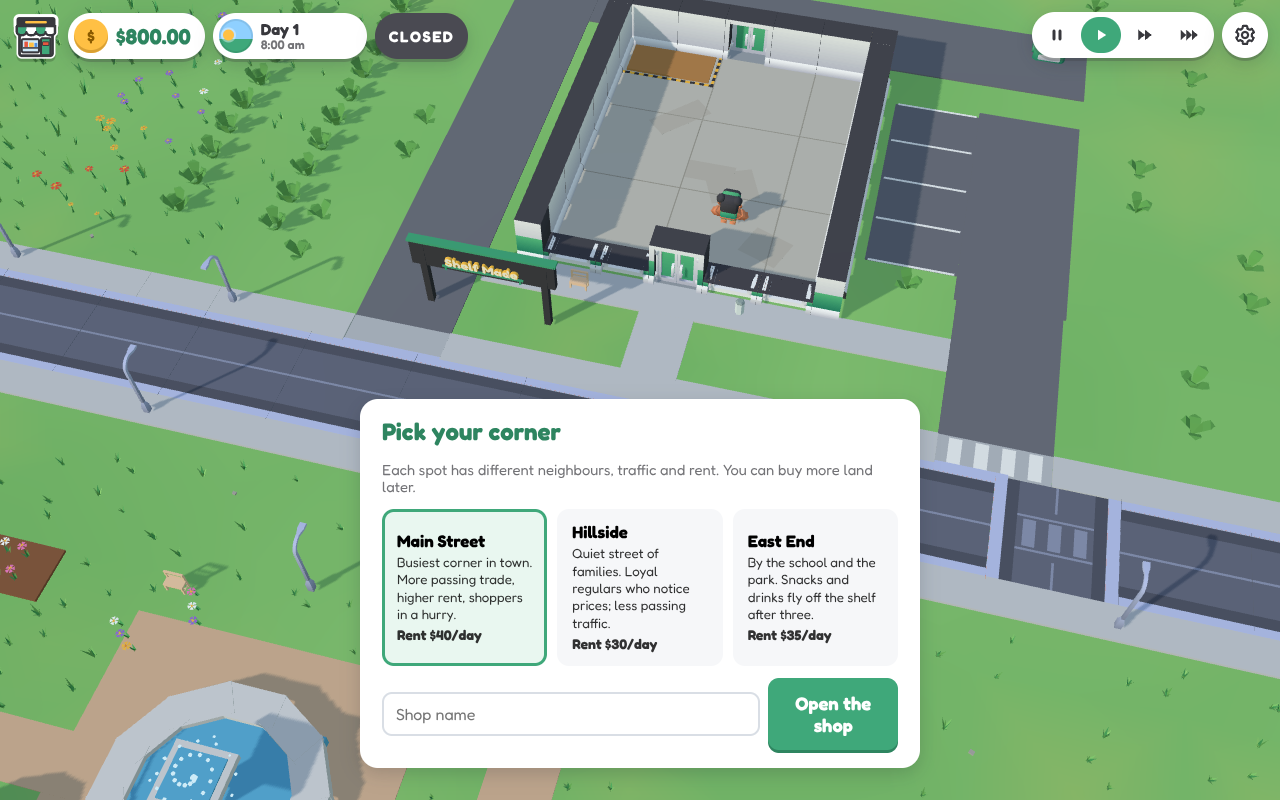
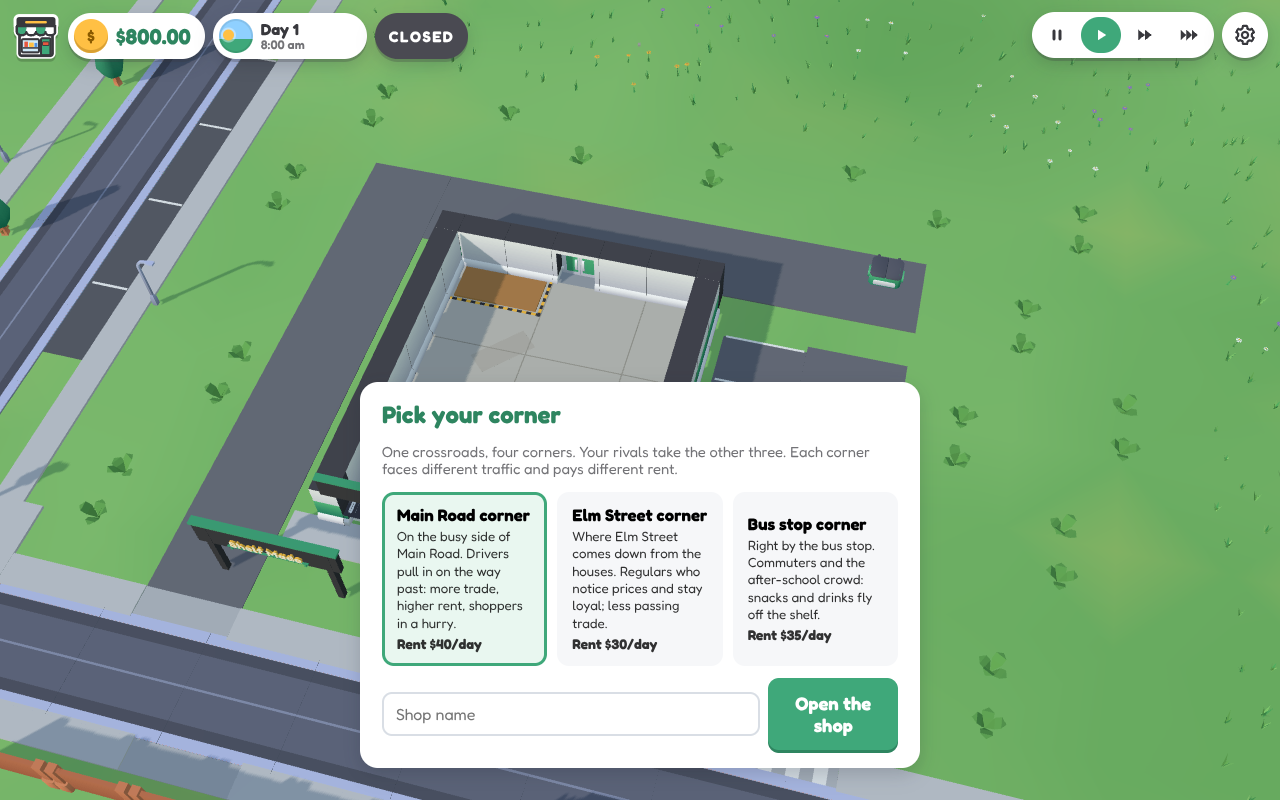
Docs and screenshots for the follow camera and the crossroads
DESIGN (camera, controls, the crossroads, numbers, performance), DECISIONS
(why each change), STATUS (what is in, checks, what is open: week-one income
is about $61/day against a $75 target), README controls. New screenshots:
close shop, mid zoom, overview, crossroads from above, all four corners, a
rival sale pulling walkers over the zebra, a full lot sending a car to a
rival, the franchise road sign, phone play.

Claude-Session: https://claude.ai/code/session_01Wj1shrqUFcS7dz22DFHo5W

diff --git a/docs/DESIGN.md b/docs/DESIGN.md
@@ -50,21 +50,31 @@ desktop/    Electron wrapper (file saves, optional Steam layer).
 ### 2.2 Render
 
 - Plain three.js (`WebGLRenderer`, sRGB output, PCF shadow map 2048 from one sun, distance fog).
-- **First person.** The game is played through the manager's eyes (`FirstPersonView`: FOV 72,
-  eye height 0.62, head bob, the box you carry held in front). Pointer lock and mouse look,
-  drag to look when the lock is refused, WASD to walk (a `moveDir` command; the manager walks
-  in real time at any clock speed), E or left click uses what the centre ray hits, Space scans
-  behind a counter. Touch: left half walks, right half looks, tap uses. An orbit camera remains
-  for the lobby, the plot picker and screenshots only.
-- The valley: one flat-shaded heightfield (level where the town stands, foothills and a snow
-  range to the north, hills elsewhere) with six rows pinned to the river so its channel is cut
-  cleanly; a water ribbon; stone bridges where the cross streets cross. The town is merged in
-  44-unit chunks (shadow casters apart from flat ground pieces) so the camera and the sun's
-  shadow pass skip what they cannot see; forest trees are instanced per model and map quarter,
-  without shadows. Characters are skinned meshes with Kenney's own clips.
-- The shop: a concrete slab, Kenney walls standing outside the floor rectangle, a flat roof with
-  an unlit pale ceiling and light panels, the name in Fredoka letters on a fascia and a pylon.
-  The cinematic camera cuts the near walls down and hides the roof; first person never does.
+- **Follow camera.** A narrow lens (FOV 30) looking down at the manager from behind and above
+  (`FollowCamera`: pitch 52° by default, 35–70° by right-drag; 12 units back by default, 7 to 68 on
+  the wheel, + / −, or a pinch). It glides after the manager; past 30 units it lets go and pans
+  freely (WASD, optional screen-edge pan, a one-finger drag), drifting toward the middle of the
+  crossroads as you pull out, and C brings it back. Q / E turn it in 45° steps. A docked card or
+  the jobs list pushes the manager to the middle of the world you can still see, and opening Build
+  pulls back until the whole floor fits beside the card. No pointer lock.
+- **Moving and using.** WASD walks the manager relative to the camera (a `moveDir` command; the
+  manager walks in real time at any clock speed). A click or tap on the floor walks there; on a
+  fixture, the pallet or a spill it walks over and uses it (a shelf is reached from whichever free
+  side is nearest). F uses the nearest usable thing within 1.2 in front of the manager, Space scans
+  behind a counter. What F or a click would do is outlined on the floor in yellow, with the key and
+  the action in a label over it. In Build the ghost sits on the tile under the mouse or the tap.
+- **The crossroads.** One intersection on an empty, level plain: Main Road east–west and Elm Street
+  north–south, a shop on each corner, zebras on all four arms, a timed light. There is nothing
+  beyond the corners: both roads run on into the haze, so the traffic drives in out of nowhere and
+  away into nothing. The ground is one flat mesh, mottled lawn over the town fading to even green;
+  grass and flowers on the verges are merged into one swaying mesh. Characters are skinned meshes
+  with Kenney's own clips, head and body merged into one draw; nobody casts a shadow-map shadow
+  (a soft instanced blob under every person and car instead), and from far off people become
+  instanced stand-ins.
+- The shop: a concrete slab, Kenney walls standing outside the floor rectangle, the name in
+  Fredoka letters on a fascia and a pylon. With the manager inside, the roof comes off and the walls
+  between the camera and the manager drop to stubs; from outside and zoomed out the shop wears its
+  roof. A rival's building that hides the manager drops to stubs the same way.
 - Stock is Kenney Food Kit and Mini Market models, scaled uniformly to fit each slot box measured
   from the fixture, front rows first, so nothing clips into shelves or neighbours.
 
@@ -74,9 +84,9 @@ desktop/    Electron wrapper (file saves, optional Steam layer).
   Marketing / Stats / Settings with labels, speed buttons. Locked systems show "New!" when
   they unlock. Everything else is a card that closes with Esc and never covers the store
   (cards dock to the right third of the screen).
-- First-person HUD: a crosshair with a prompt (`[E] Stock Bread ×8`), a "Next up" panel for the
-  current tip with a marker over its target (pinned to the screen edge when off to the side),
-  "Click to look around" when the mouse is free. Skip always.
+- Play HUD: the yellow outline and key label on whatever F or a click would act on (no crosshair),
+  a small controls card bottom left, a Use button bottom right that mirrors the label, and the
+  first day's jobs as a checklist. Skip always.
 - Lobby: a shop front (striped awning, the manager's head as the logo, the name with the shelf
   bracket, a price-tag beta badge, menu items as shelf-edge labels under a swinging OPEN sign, an
   LED ticker) over a live demo shop at golden hour.
@@ -108,8 +118,8 @@ desktop/    Electron wrapper (file saves, optional Steam layer).
 | Day-1 fit-out | counter $180, two shelves (4 slots × 8), a chiller $200 (4 × 6), first order ≈ $120 | balance harness pays for it |
 | Fixture prices | shelf $85, produce stand $60, end cap $70, chiller $200, tall fridge $300, counter $180, kiosk $650 | each ≤ 5 days of a guided player's income |
 | Shop sizes | 5×6 (start), 7×7 for $900, 9×8 for $2 400; lot doubles for $500 | |
-| Town | Main Street on z = 2.5, cross streets at x = −35 and 39, Back Lane at z = −21.5, river at z ≈ 24; every building on its own lot | tests assert no overlaps |
-| Traffic | spawns and leaves at ±92 in the fog; keeps a 2-unit gap, yields at junctions, backs out of bays | |
+| Town | one crossroads: Main Road on z = 2.5, Elm Street on x = 0, a 20.6 × 14.15 lot on each corner (fits the largest shop with the doubled lot), south corners turned half round; nothing beyond the corners | tests assert lots never overlap or touch a road, and only roads run on past the town |
+| Traffic | spawns and leaves at ±90 down both roads, in the haze; a 36 s light with an all-walk phase; keeps a 2-unit gap, backs out of lot bays, pulls in and out of three Elm Street bays 3.4 apart; a parked car whose driver has gone drives off | tests: no overlaps at rush hour, nobody runs a red, turned-away cars never stuck |
 | Staff | cashier ≈ $48/day, stocker $42, cleaner $36, orderer $52, manager $90, +12% payroll tax | |
 | Loans | $600 at 1.2%/day over 10 days, $1 800 at 1.0% over 15, $5 000 at 0.9% over 20 | one rescue offered when broke |
 | Rivals | Cheapo opens day 3 (prices −14%), Fresh & Fine day 6 (+22%), MegaMart day 10 (expands) | sales every 4–8 days |
@@ -150,5 +160,8 @@ each type is a softmax (k = 4) over weighted scores against open rivals, who cou
 ## 5. Performance
 
 Budgets: 60 fps starter shop, ≥45 fps busy store at 4x and zoomed-out neighbourhood;
-< 250 draw calls; < 15 MB compressed; interactive within 3 s. Means: merged statics,
-instancing, one shadow caster set, LOD on characters (static pose when far), no post FX.
+< 250 draw calls and < 900k triangles; < 15 MB compressed; interactive within 3 s. Means: merged
+statics, instancing, shadow-map shadows only for buildings and fixtures (blob shadows for people and
+cars), one draw per character, instanced stand-ins for far people, people out of view skipped, no
+post FX. Measured (`npm run perf`): 79–107 draw calls and 126k–157k triangles from the shelves out
+to mid zoom, 130 and 233k at the full overview (the valley map before it: 131–217 and 494k–790k).

diff --git a/DECISIONS.md b/DECISIONS.md
@@ -51,3 +51,20 @@ One line each, newest at the bottom.
 - Animals, birds, butterflies, the fountain spray, the waterfall streaks and the clouds live in `render/Ambient.ts`: render-only, a pure function of time, never in the save. The sky is a gradient dome whose colours follow the lighting.
 - The pink-noise ambience bed is gone. Ambience is now short synthesised bird calls by day, crickets at night and the odd duck. Every action has a cue: commands that do not make their own sound get one from a table in `applyCommand`; the runtime adds footsteps, cars whooshing past (panned) and card open/close; every button gets a hover tick and a press pop from one document listener.
 - The HUD is icon-first: cash, a day dial and an OPEN/CLOSED sign as pills top left; play/pause/fast as icons top right; the tools as big coloured tiles with a label each on a wooden shelf along the bottom (the brand's shelf), locked tiles showing the day they open. The first day's tips became a checklist ("Today's jobs") with the current job's how-to under it. A Use button bottom right mirrors the crosshair prompt and works on click or tap.
+- (Third rework) A follow camera replaces the over-the-shoulder view: a narrow 30° lens looking down from behind and above, 12 units back by default and zooming from 7 (the shelves) to 68 (the whole crossroads). At the default zoom you see the manager, the shelves, the queue and the door; one scroll out adds the lot and the road. The over-the-shoulder camera hid the shop behind the manager and could not show the queue and the rivals together; a tycoon wants to see the whole floor and the corners across the street, and still feel hands-on. Past 30 units the camera stops following and pans, drifting to the middle of the crossroads as it pulls out, so the far limit always frames the town; C comes back.
+- Use moved from E to F so Q / E can turn the camera in 45° steps; a right-drag turns it freely and tilts it (35–70°). Old key settings with Use on E move to F. Pointer lock is gone: the mouse is a pointer again (hover shows what a thing is, a click walks there and uses it), and a phone taps to walk or use, drags to turn and pinches to zoom.
+- F acts on the nearest usable thing within 1.2 of the manager and in front of them; a click on something further away walks over first. Things you can use win over things you can only look at, so standing between a shelf and the pallet picks whatever you can actually do. A click on a shelf walks to whichever free side of it is nearest, so a shelf turned to face a wall is still stocked from the room.
+- The target is outlined on the floor in yellow (white when it only tells you what it is) with the key and the action in a label over it. The crosshair went with first person.
+- A docked card or the first day's jobs list pushes the manager to the middle of the world you can still see (measured from the DOM every tenth of a second), and opening Build pulls the camera back until the whole floor fits beside the card, then goes back to your zoom when you close it unless you zoomed in the meantime.
+- Building never traps the manager: a fixture is refused on the manager's tile ("You are standing there") and where it would cut them off from the door ("Would box you in").
+- The crossroads replaced the valley (the brief): one intersection, the player on one corner, Cheapo, Fresh & Fine and MegaMart on the other three, every rival door, sign and lot in view from mid zoom. The valley spread 725k triangles over scenery nobody visited and hid the competition down the road.
+- The backdrop ring the brief asked for (house backs, fences, apartment blocks, trees, mountains) was built and then removed on your instruction: the map is the crossroads and nothing else, on an empty level plain, with both roads running off into the haze so cars drive in out of nowhere and away into nothing. Grass and flowers stay on the verges between the corners only, and the off-map neighbourhoods live on the road signs at the edge of town.
+- With no rooftops left, the third billboard stands on tall legs where Elm Street leaves town ("High board on Elm Street", same id and rent). A board on a rival's roof would have floated over an empty lot until that rival opened.
+- Performance pass with the new map: rival buildings are plain boxes with window and door panes (their roofs hid the Kenney wall pieces' detail), signs seen from afar use flat lettering without bevels, the verges are one merged mesh, each character is one draw (Kenney's head and body share a skeleton), people and cars sit on instanced blob shadows instead of casting into the shadow map, people out of the camera's view are skipped, and from far off people are instanced stand-ins in their shirt colour. Draw calls went from about 220 to 79–130 and triangles from 700k–990k to 126k–232k.
+- Elm Street's three shared bays moved to 3.4 apart (from 2.5) and cars swing in later: a car pulling into the second bay used to swing in beside the car parked in the first and wait there for good. Loading an older save re-seats the bays where they stand now.
+- A parked car whose driver no longer exists drives off by itself. At closing time the last customers are sent home, and their parked cars used to stay forever; one of them in a street bay blocked Elm Street and every car behind it (a balance run reached 518 cars).
+- The three pickable corners: Main Road corner (north-east: busy, convenience and impulse, $40/day), Elm Street corner (north-west: residential, bargain hunters and loyalists, $30) and Bus stop corner (south-west: commuters and the after-school crowd, impulse, $35). The south-east corner always goes to a rival. South corners are the same shop layout turned half round, so every shop-relative calculation goes through one frame (`toWorld` / `toLocal`).
+- The traffic light is a 36-second cycle with an all-walk phase; cars hold at stop lines and walkers wait at the kerb, both reading the same `lightAt(tick)`, so it stays deterministic. A queued car never uses the jam breaker while its light is red.
+- Rival customers are visual only: they come from their own `rivalCustomers` random stream and never touch the player's sim. How many there are follows each rival's share of the town's trade (× 0.45, so the crossroads does not drown in people), so a Cheapo sale visibly pulls walkers across the zebra. A driver who finds the player's lot full drives on to the nearest open rival lot ahead, a free Elm Street bay, or out of town.
+- MegaMart's extra branches and the player's franchises open in four off-map neighbourhoods (Hillside, East End, Elm Heights, Riverside), shown on the road signs at the edge of town; flyers go out to the same neighbourhoods. Old franchise plots map to off-map sites and old plots to corners (save v9).
+- Anyone who leaves the world is taken out of every till's line straight away. Closing time used to remove the last customers while their ids stayed in the queue, so the next morning the line waited on someone who no longer existed and nobody was served all day (a balance run went from 75 served to 0).

diff --git a/STATUS.md b/STATUS.md
@@ -3,7 +3,68 @@
 Build log for the unattended build session (October 14, 2026). Everything below was built from
 an empty repository in this session.
 
-## Rework after the first play (latest)
+## Follow camera and the crossroads (latest)
+
+- [x] **Follow camera.** A narrow lens looks down at the manager from behind and above, 12 units
+  back by default: the manager, the shelves, the queue and the door in view. The wheel, + and −,
+  or a pinch zoom from the shelves (7) out to the whole crossroads (68); one scroll out shows the
+  lot and the road. Past 30 the camera pans freely (WASD, optional edge pan) and drifts to the
+  middle of the crossroads; C brings it back. Q / E turn it in 45° steps, a right-drag turns and
+  tilts it (35–70°). Docked cards and the jobs list push the manager to the middle of what you can
+  still see; Build pulls back so the whole floor fits beside the card.
+- [x] **Walk, click, tap.** WASD walks relative to the camera; a click or tap on the floor walks
+  there; on a shelf, the pallet or a spill it walks over and uses it. F uses whatever is outlined
+  in front of you (yellow outline and a key label over it; the crosshair is gone), Space scans.
+  The Build ghost follows the mouse or tap; a click places it, a plain right click cancels.
+  Building never traps the manager. Use moved from E to F (old key settings migrate).
+- [x] **The manager stands out.** A name badge and a clipboard; boxes carried in both arms.
+- [x] **The crossroads.** One intersection: the player on the corner they picked, Cheapo, Fresh &
+  Fine and MegaMart on the other three with real storefronts, lots and pylons (fenced and "coming
+  soon", then scaffolding, before they open). Zebras on all four arms and a timed light that cars
+  and walkers obey; three shared bays on Elm Street; a bus stop with rush-hour bursts; rival
+  shoppers you can see walking in and driving in, more of them during a sale; a full lot sends
+  the next car on to a rival or the street bays. Franchises and MegaMart's branches open in
+  off-map neighbourhoods named on the road signs; flyers go to the same places; three physical
+  billboards. Save version 9 with a migration from the valley.
+- [x] **Nothing beyond the crossroads.** On your note, the backdrop ring (house backs, blocks,
+  forest, hills) is gone: the corners sit on an empty level plain and both roads run off into the
+  haze, where the traffic appears and vanishes.
+- [x] **Lighter.** 79–130 draw calls and 126k–233k triangles from the shelves out to the full
+  overview (the valley: 131–217 and 494k–790k). People and cars sit on blob shadows, each
+  character is one draw, far-off people are instanced stand-ins.
+- [x] **Fixes found on the way.** A car pulling into a street bay could wedge itself beside the
+  parked car behind it; parked cars whose drivers went home at closing stayed for ever (one run
+  piled up 518 cars); a customer removed at closing stayed at the head of the till's line so nobody
+  was served the next day.
+
+Checks on the latest run:
+
+| Check | Result |
+|---|---|
+| `npm run lint` | clean |
+| `npm test` | 52 passed, including the crossroads plan (corner lots never overlap or touch a road, fit the largest shop with the doubled lot, the player's corner holds only their shop, level ground, only roads run on past the town), traffic (no overlaps at rush hour, nobody runs a red, turned-away cars never stuck, a car pulls into a street bay past a parked neighbour, a driverless car drives off), rival shoppers, building never traps the manager, a shelf against a wall is reached from the room, and a till line never waits on someone who has gone |
+| `npm run e2e` | 8 passed: the first day with the follow camera (place a counter and a shelf with the mouse, right click to stop placing, order, click the floor to walk to the pallet, F to pick up, click the shelf to stock it, open, click the counter to walk behind it, Space to scan, close up, save and quit); zoom, turn and come back with C; tap to walk and tap a shelf on a phone viewport; the lobby; 21 screenshots; perf |
+| `npm run audit:art` | 418 models, passed |
+| `npm run balance -- --check` | passed: nobody sensible goes bust, nobody stuck, the fit-out leaves $136; guided ≈ $61/day in week one; rivals take 24% of a guided player's trade over week one (40–50% on days 6–7 once Fresh & Fine opens) |
+| Perf (`npm run perf`) | default zoom 79 draw calls / 126k triangles; busy at 4x 104 / 153k; mid zoom 107 / 157k; full overview 130 / 233k (budget 250 / 900k) |
+
+Screenshots in `docs/screens/`: `01-lobby`, `02-plot-picker`, `03-bare-shell`, `04-build-ghost`,
+`05-carrying-a-box`, `06-close-shop` (default zoom), `07-mid-zoom` (one scroll out: queue, door,
+lot, road), `08-overview` (the full zoom), `09-crossroads-above`, `10-rival-corners`, `11-delivery`,
+`12-finance-card`, `13-rival-sale-zebra`, `14-staff-on-floor`, `15-market-hall`,
+`16-market-hall-lot`, `17-full-lot-to-rival`, `18-franchise-sign`, `19-night-card`,
+`20-phone-play`, `21-lobby-phone`.
+
+Still open from this round:
+- **Week-one income is ≈ $61/day, under the ≈ $75 the brief asks for** (the valley build measured
+  $57). The guided player is held back by its own capacity (a full lot turns 12–70 drivers away a
+  day, and it runs out of stock), not by traffic, so more traffic would not close the gap. The fix is
+  a balance number (cheaper extra bays, or a bigger starter lot); see Decisions needing you.
+- The camera was driven by tests and screenshots in headless Chromium; zoom speed, follow
+  smoothing and the turn steps want a human pass with a real mouse and a phone.
+- The rival buildings are plain boxes with window panes; the toy-town art pass is next.
+
+## Rework after the first play
 
 What changed after feedback that the art did not fit Kenney, meshes clipped, the map was open
 land and the camera felt wrong:
@@ -119,6 +180,9 @@ Visual checklist, as of the last run: store ≈ 45% of the screen at default zoo
 - No localisation; English only.
 
 ## Decisions needing you
+0. **Week-one income.** Guided play makes ≈ $61/day against a ≈ $75 target. Cheaper extra parking
+   ($500 now) or a starter lot with more bays would close most of it; say which and the harness will
+   hold the line.
 1. **Vercel permission.** Project creation is refused (403) for the Startups team; create the project from the repo in the Vercel dashboard or grant the permission.
 2. **Prices and pace.** A guided player nets about $75/day in week one and buys a shelf every day or two; say if you want it tighter or looser, and the harness will hold the line.
 3. **Fonts and brand.** The wordmark underline is CSS in the lobby and a green bar on the pylon sign; if you have a real logo file it drops into `TopBar.tsx` and `StoreView.ts`.

diff --git a/README.md b/README.md
@@ -22,11 +22,14 @@ npm run balance -- --check   # scripted strategies over many seeds
 - `CREDITS.md`, `ASSET_LICENSES.md` every source (CC0 / OFL only)
 - `desktop/` Electron wrapper (file saves, optional Steam layer)
 
-You play the manager in first person. Click the world to look around with the mouse (Esc frees
-it), WASD to walk, E or left click to use what the crosshair points at (pick up a box, stock a
-shelf, place a fixture), Space to scan behind the counter, B opens Build, Tab opens Stock, R or the
-wheel turns a fixture, right click cancels, 1/2/3 set speed, P pauses. On a phone: drag the left
-half to walk, the right half to look, tap to use.
+You play the manager, seen from a camera that follows you from above. WASD walks (relative to
+the camera); click the floor to walk there, or click a shelf, the delivery pallet or a spill to walk
+over and use it. F uses whatever is outlined in front of you (pick up a box, stock a shelf), Space
+scans behind the counter. The wheel (or + and −) zooms from the shelves out to the whole crossroads;
+zoomed right out, WASD pans and C brings the camera back to you. Q and E turn the camera, a
+right-drag turns and tilts it. B opens Build (the ghost follows the mouse; click to place, R turns
+it, right click cancels), Tab opens Stock, 1/2/3 set speed, P pauses. On a phone: tap to walk or
+use, drag to turn the camera, pinch to zoom.
 
 ```
 npm run gen:logo    # draw the shop-front logo (SVG + PNGs) into public/brand/
